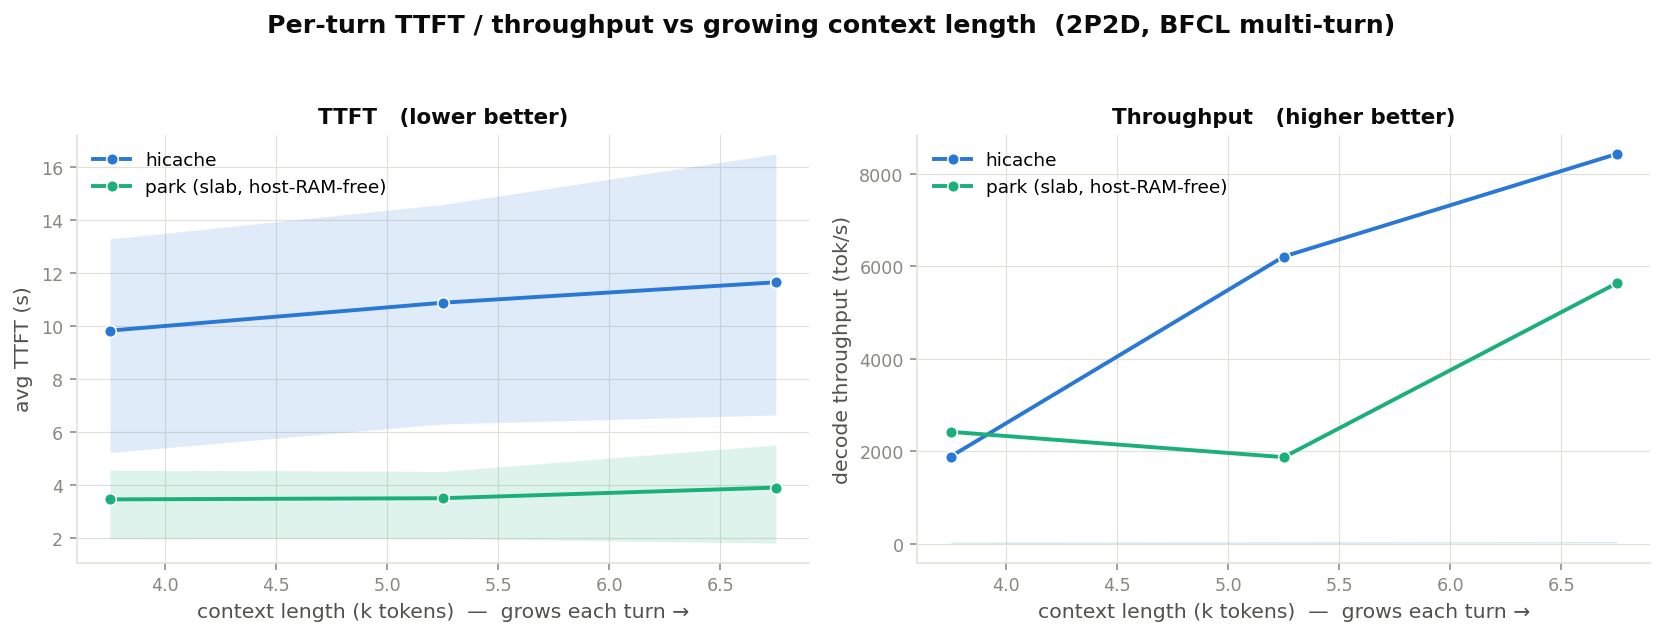
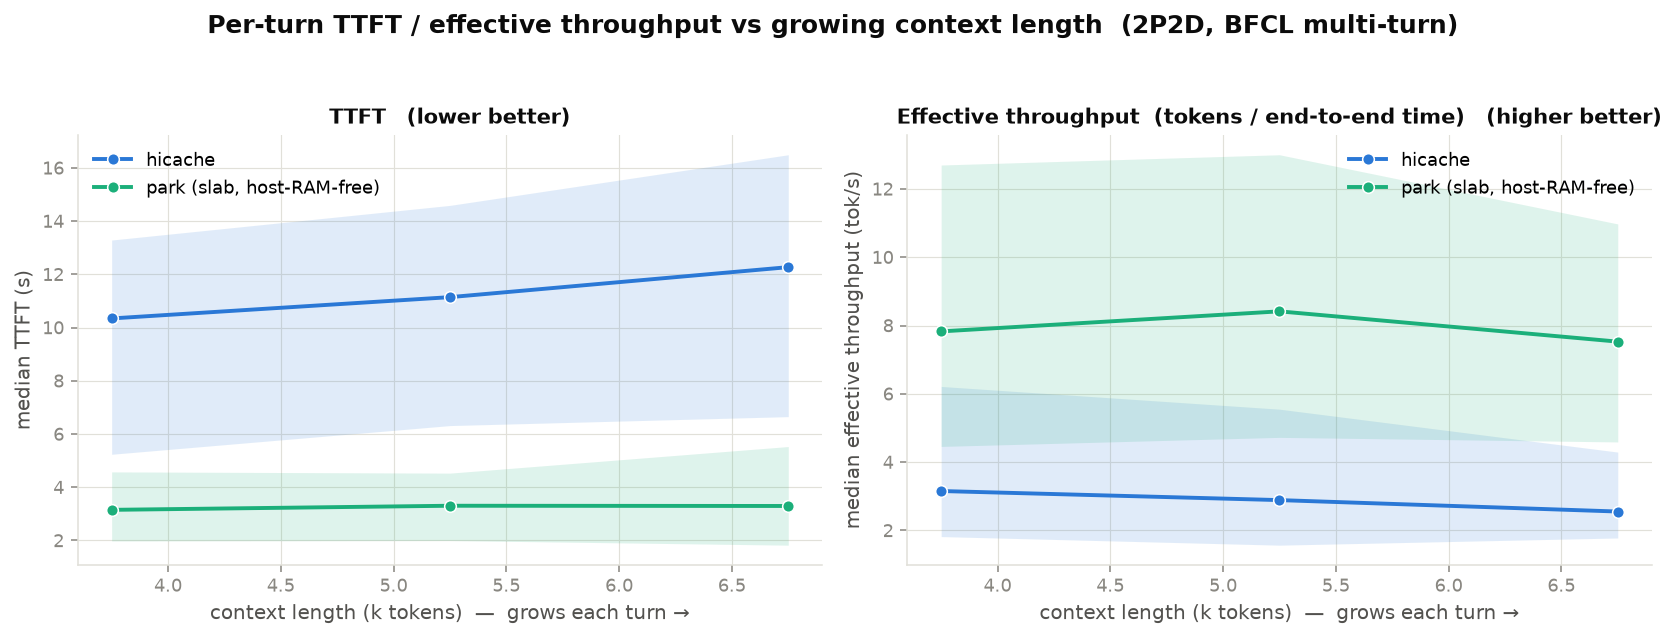
fix perturn figure: robust stats + honest throughput metric + clean baseline
- plotter: median (not mean) center line; replace per-request DECODE throughput
  (confounded -- an arm that queues in prefill runs fewer concurrent decodes so
  each decodes faster, inverting the real story) with effective throughput =
  completion_tokens / e2e_latency, which is not confounded and matches the
  system-level result (park 88 vs hicache 48 tok/s overall).
- benchmark: guard decode-rate calc (require real multi-token decode) so short
  tool-call turns with decode_time~=0 don't produce 1e5 tok/s artifacts.
- runner: hicache arm now forces IDLE_KV_PARKING=0 and strips leaked park env,
  so it is a provably park-free baseline.

Claude-Session: https://claude.ai/code/session_01AoK4pG7kwrWE4Xc7fqoTVf

diff --git a/benchmark/plot_perturn_ctxlen.py b/benchmark/plot_perturn_ctxlen.py
@@ -33,6 +33,15 @@ INK, SECOND, MUTED, GRID = "#0b0b0b", "#52514e", "#898781", "#e1e0d9"
 
 
 def load_points(paths):
+    """Build per-turn points from the `results` turns so we get e2e latency and
+    completion tokens (the flat `points` list lacks them). Each point:
+      ctx  = prompt_tokens (context length the server saw)
+      ttft = time to first token
+      good = effective throughput = completion_tokens / e2e_latency
+             (tok/s from request submit to last token -- includes TTFT, so it is NOT
+             confounded by the decode-batch-occupancy effect that inflates per-request
+             *decode* rate when an arm is starving/queueing).
+    """
     pts = []
     for p in paths:
         try:
@@ -40,13 +49,21 @@ def load_points(paths):
         except Exception as e:  # noqa: BLE001
             print(f"[warn] skip {p}: {e}")
             continue
-        pts.extend(d.get("points", []))
+        for r in d.get("results", []):
+            for t in r.get("turns", []):
+                ctx, ttft = t.get("prompt_tokens"), t.get("ttft_s")
+                e2e, ntok = t.get("e2e_latency_s"), t.get("completion_tokens")
+                if not ctx or not ttft:
+                    continue
+                good = (ntok / e2e) if (e2e and ntok) else None
+                pts.append({"ctx": ctx, "ttft": ttft, "good": good, "turn": t.get("turn")})
     return pts
 
 
 def binned(points, key, bin_w, min_n):
     """Group points into fixed-width context-length bins; return per-bin
-    (center, mean, q25, q75, n) for the given value key ('ttft'/'tput')."""
+    (center, median, q25, q75, n). Median (not mean) so the long TTFT tail doesn't
+    drag the line."""
     buckets = {}
     for pt in points:
         v = pt.get(key)
@@ -61,10 +78,10 @@ def binned(points, key, bin_w, min_n):
         if len(vals) < min_n:
             continue
         n = len(vals)
-        mean = sum(vals) / n
+        med = vals[n // 2] if n % 2 else 0.5 * (vals[n // 2 - 1] + vals[n // 2])
         q25 = vals[int(0.25 * (n - 1))]
         q75 = vals[int(0.75 * (n - 1))]
-        rows.append(((b + 0.5) * bin_w, mean, q25, q75, n))
+        rows.append(((b + 0.5) * bin_w, med, q25, q75, n))
     return rows
 
 
@@ -110,22 +127,23 @@ def main():
 
     park_ttft = binned(park, "ttft", args.bin, args.min_n)
     hic_ttft = binned(hic, "ttft", args.bin, args.min_n)
-    park_tput = binned(park, "tput", args.bin, args.min_n)
-    hic_tput = binned(hic, "tput", args.bin, args.min_n)
+    park_good = binned(park, "good", args.bin, args.min_n)
+    hic_good = binned(hic, "good", args.bin, args.min_n)
 
-    # console summary (overall means)
-    def om(pts, k):
-        vs = [p[k] for p in pts if p.get(k) is not None]
-        return sum(vs) / len(vs) if vs else float("nan")
-    print(f"\n=== overall means ===")
-    print(f"  TTFT   park={om(park,'ttft'):.3f}s  hicache={om(hic,'ttft'):.3f}s")
-    print(f"  tput   park={om(park,'tput'):.1f}    hicache={om(hic,'tput'):.1f}")
+    # console summary (overall medians)
+    def omed(pts, k):
+        vs = sorted(p[k] for p in pts if p.get(k) is not None)
+        return median(vs) if vs else float("nan")
+    print(f"\n=== overall medians ===")
+    print(f"  TTFT       park={omed(park,'ttft'):.3f}s  hicache={omed(hic,'ttft'):.3f}s")
+    print(f"  goodput    park={omed(park,'good'):.1f}   hicache={omed(hic,'good'):.1f} tok/s  (completion/e2e)")
 
     fig, (axL, axR) = plt.subplots(1, 2, figsize=(12, 4.6))
-    fig.suptitle("Per-turn TTFT / throughput vs growing context length  (2P2D, BFCL multi-turn)",
+    fig.suptitle("Per-turn TTFT / effective throughput vs growing context length  (2P2D, BFCL multi-turn)",
                  fontsize=13, fontweight="bold", color=INK)
-    draw(axL, park_ttft, hic_ttft, "avg TTFT (s)", "TTFT", "lower better")
-    draw(axR, park_tput, hic_tput, "decode throughput (tok/s)", "Throughput", "higher better")
+    draw(axL, park_ttft, hic_ttft, "median TTFT (s)", "TTFT", "lower better")
+    draw(axR, park_good, hic_good, "median effective throughput (tok/s)",
+         "Effective throughput  (tokens / end-to-end time)", "higher better")
 
     os.makedirs(os.path.dirname(args.out) or ".", exist_ok=True)
     fig.tight_layout(rect=[0, 0, 1, 0.94])

diff --git a/benchmark/sglang_perturn_ctxlen.py b/benchmark/sglang_perturn_ctxlen.py
@@ -143,9 +143,13 @@ def run_turn(conversation, tools):
     n_out = completion_tokens if completion_tokens else token_count
     ttft = (t_first - t_request) if t_first else None
     e2e = (t_last - t_request) if t_last else None
+    # Guard the decode-rate calc: short tool-call turns stream their whole reply in one
+    # network flush (decode_time ~= 0), which makes (tokens-1)/decode_time explode to 1e5.
+    # Require a real multi-token decode phase; else leave decode-rate metrics None.
     decode_time = (t_last - t_first) if (t_last and token_count > 1) else None
-    tpot = (decode_time / (token_count - 1)) if (decode_time and token_count > 1) else None
-    tput = ((token_count - 1) / decode_time) if (decode_time and token_count > 1) else None
+    real_decode = decode_time is not None and decode_time >= 5e-3 and token_count >= 4
+    tpot = (decode_time / (token_count - 1)) if real_decode else None
+    tput = ((token_count - 1) / decode_time) if real_decode else None
     return ({
         "prompt_tokens": prompt_tokens,          # <- context length seen by the server
         "completion_tokens": n_out,
